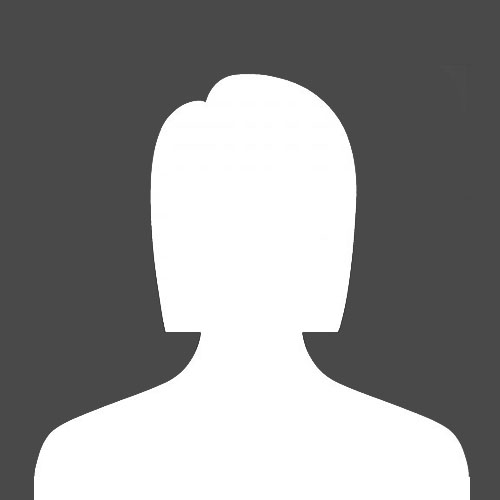
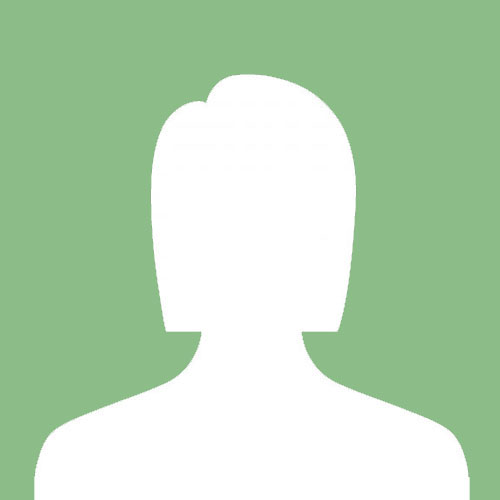
restyled match page (final colors)

diff --git a/client/templates/matches.html b/client/templates/matches.html
@@ -20,25 +20,25 @@
                     
 
                     <a href="" class="user-1 user-filled" data-toggle="tooltip">
-                        <img ng-show="match.team1Left === 'Me'" src="img/bela.jpg">
+                        <img ng-show="match.team1Left === 'Me'" src="img/admin5.jpg">
                         <img ng-show="match.team1Left === 'Team mate (male)'" src="img/male.jpg">
                         <img ng-show="match.team1Left === 'Team mate (female)'" src="img/female.jpg">
                         <img ng-show="match.team1Left === 'Empty'" src="img/blank.jpg">
                     </a>
                     <a href="" class="user-2 user-filled" data-toggle="tooltip">
-                        <img ng-show="match.team1Right === 'Me'" src="img/bela.jpg">
+                        <img ng-show="match.team1Right === 'Me'" src="img/admin5.jpg">
                         <img ng-show="match.team1Right === 'Team mate (male)'" src="img/male.jpg">
                         <img ng-show="match.team1Right === 'Team mate (female)'" src="img/female.jpg">
                         <img ng-show="match.team1Right === 'Empty'" src="img/blank.jpg">
                     </a>
                     <a href="" class="user-3 user-filled" data-toggle="tooltip">
-                        <img ng-show="match.team2Left === 'Me'" src="img/bela.jpg">
+                        <img ng-show="match.team2Left === 'Me'" src="img/admin5.jpg">
                         <img ng-show="match.team2Left === 'Team mate (male)'" src="img/male.jpg">
                         <img ng-show="match.team2Left === 'Team mate (female)'" src="img/female.jpg">
                         <img ng-show="match.team2Left === 'Empty'" src="img/blank.jpg">
                     </a>
                     <a href="" class="user-4 user-filled" data-toggle="tooltip">
-                        <img ng-show="match.team2Right === 'Me'" src="img/bela.jpg">
+                        <img ng-show="match.team2Right === 'Me'" src="img/admin5.jpg">
                         <img ng-show="match.team2Right === 'Team mate (male)'" src="img/male.jpg">
                         <img ng-show="match.team2Right === 'Team mate (female)'" src="img/female.jpg">
                         <img ng-show="match.team2Right === 'Empty'" src="img/blank.jpg">

diff --git a/client/styles/css/styles.css b/client/styles/css/styles.css
@@ -209,9 +209,17 @@ footer {
   background-attachment: fixed;
   background-repeat: no-repeat;
   background-size: cover; }
-  @media (min-width: 1200px) {
+  @media (min-width: 1020px) {
     .main-matches .container {
-      width: 1100px; } }
+      width: 1000px; }
+    .main-matches .matches-container {
+      justify-content: flex-start; } }
+  @media (max-width: 1019px) and (min-width: 777px) {
+    .main-matches .container {
+      width: 750px; } }
+  @media (max-width: 766px) {
+    .main-matches .matches-container {
+      justify-content: center; } }
   .main-matches .main-page-container {
     background: rgba(255, 255, 255, 0); }
   .main-matches h1,
@@ -226,7 +234,6 @@ footer {
     border-color: grey; }
   .main-matches .matches-container {
     display: flex;
-    justify-content: center;
     padding: 0;
     flex-wrap: wrap; }
   .main-matches .user-1,
@@ -254,24 +261,10 @@ footer {
       .main-matches .user-2 img:hover,
       .main-matches .user-3 img:hover,
       .main-matches .user-4 img:hover {
-        filter: grayscale(75%) blur(3px) opacity(60%); }
-  .main-matches .fa-eye {
-    position: absolute;
-    right: 20px;
-    top: 20px;
-    font-size: 27px;
-    color: black;
-    z-index: 0; }
-  .main-matches .ionicons {
-    position: absolute;
-    right: 23px;
-    top: 16px;
-    font-size: 35px;
-    color: grey;
-    z-index: 2; }
+        transform: scale(1.2); }
   .main-matches .match-container {
     padding: 5px 15px 5px 15px;
-    background-color: rgba(255, 255, 255, 0.4);
+    background-color: rgba(255, 255, 255, 0.9);
     border-radius: 5px; }
     .main-matches .match-container h4 {
       font-weight: bold;
@@ -319,7 +312,7 @@ footer {
     margin-left: 115px;
     margin-top: 152px; }
   .main-matches .li-match {
-    margin: 15px; }
+    margin: 10px; }
   .main-matches .header-main {
     position: absolute;
     display: inline-block;

diff --git a/src/scss/pages/matches.scss b/src/scss/pages/matches.scss
@@ -4,9 +4,22 @@
     background-attachment: fixed;
     background-repeat: no-repeat;
     background-size: cover;
-    @media (min-width: 1200px) {
+    @media (min-width: 1020px) {
         .container {
-            width: 1100px;
+            width: 1000px;
+        }
+        .matches-container {
+            justify-content: flex-start;
+        }
+    }
+    @media (max-width: 1019px) and (min-width: 777px) {
+        .container {
+            width: 750px;
+        }
+    }
+    @media (max-width: 766px) {
+        .matches-container {
+            justify-content: center;
         }
     }
     .main-page-container {
@@ -27,7 +40,6 @@
     }
     .matches-container {
         display: flex;
-        justify-content: center;
         padding: 0;
         flex-wrap: wrap;
     }
@@ -50,30 +62,13 @@
             position: absolute;
             transition: 0.2s;
             &:hover {
-                filter: grayscale(75%) blur(3px) opacity(60%);
+                transform: scale(1.2);
             }
-
         }
-    }
-    .fa-eye {
-        position: absolute;
-        right: 20px;
-        top: 20px;
-        font-size: 27px;
-        color: black;
-        z-index: 0;
-    }
-    .ionicons {
-        position: absolute;
-        right: 23px;
-        top: 16px;
-        font-size: 35px;
-        color: grey;
-        z-index: 2;
     }
     .match-container {
         padding: 5px 15px 5px 15px;
-        background-color: rgba(255, 255, 255, 0.4);
+        background-color: rgba(255, 255, 255, 0.9);
         border-radius: 5px;
         h4 {
             font-weight: bold;
@@ -137,7 +132,7 @@
         margin-top: 152px;
     }
     .li-match {
-        margin: 15px;
+        margin: 10px;
     }
     .header-main {
         position: absolute;
